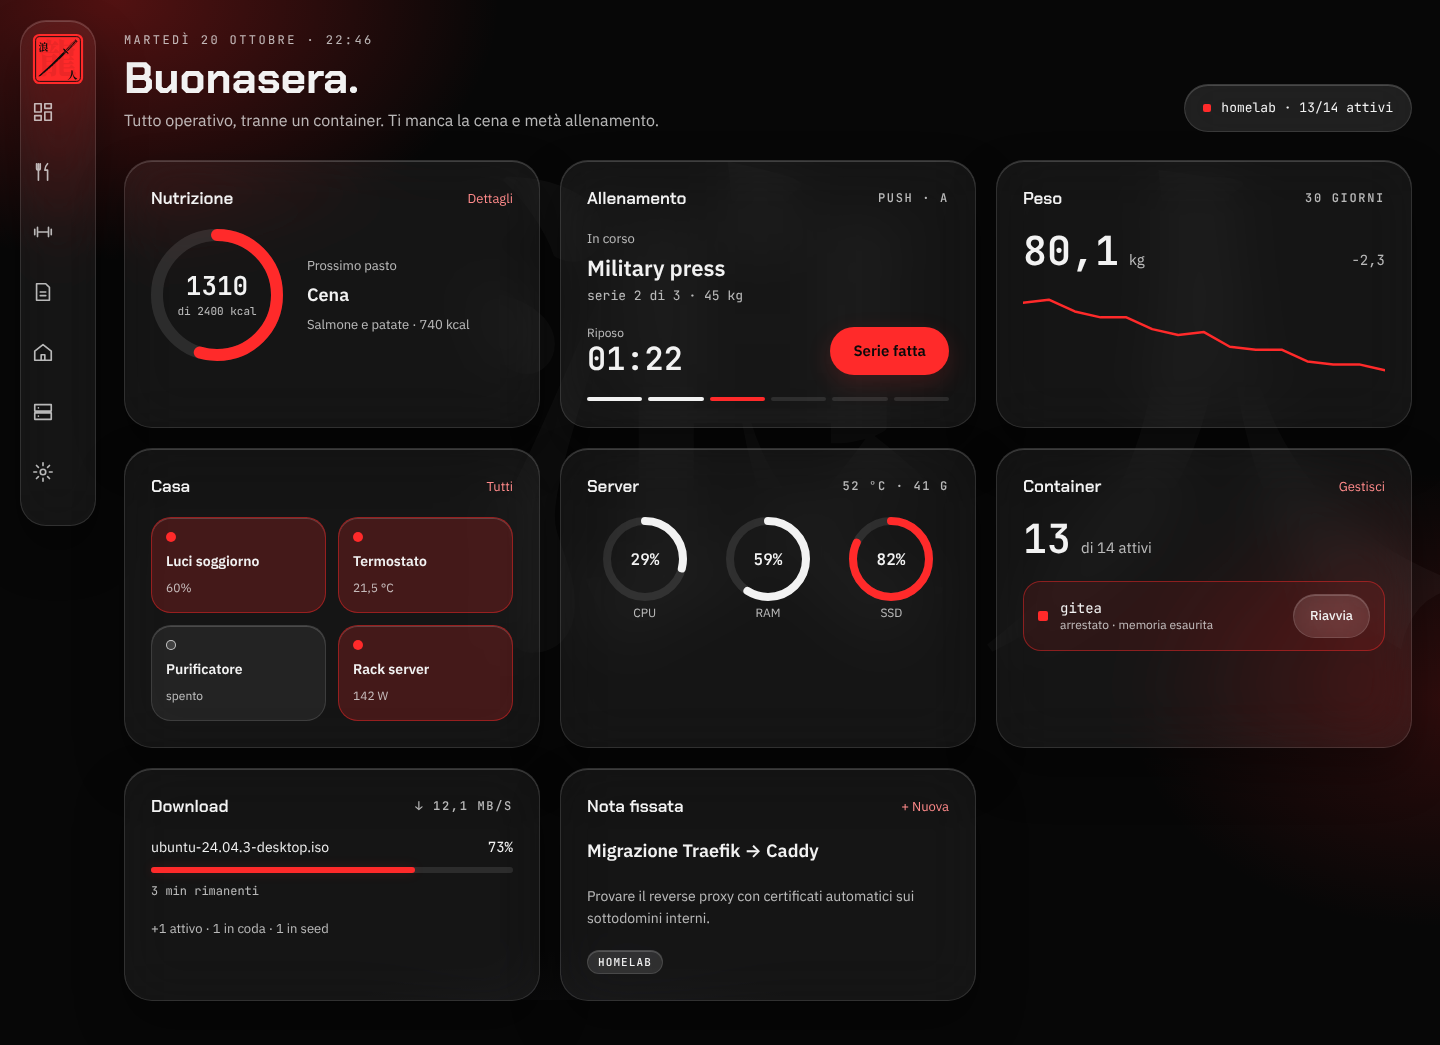
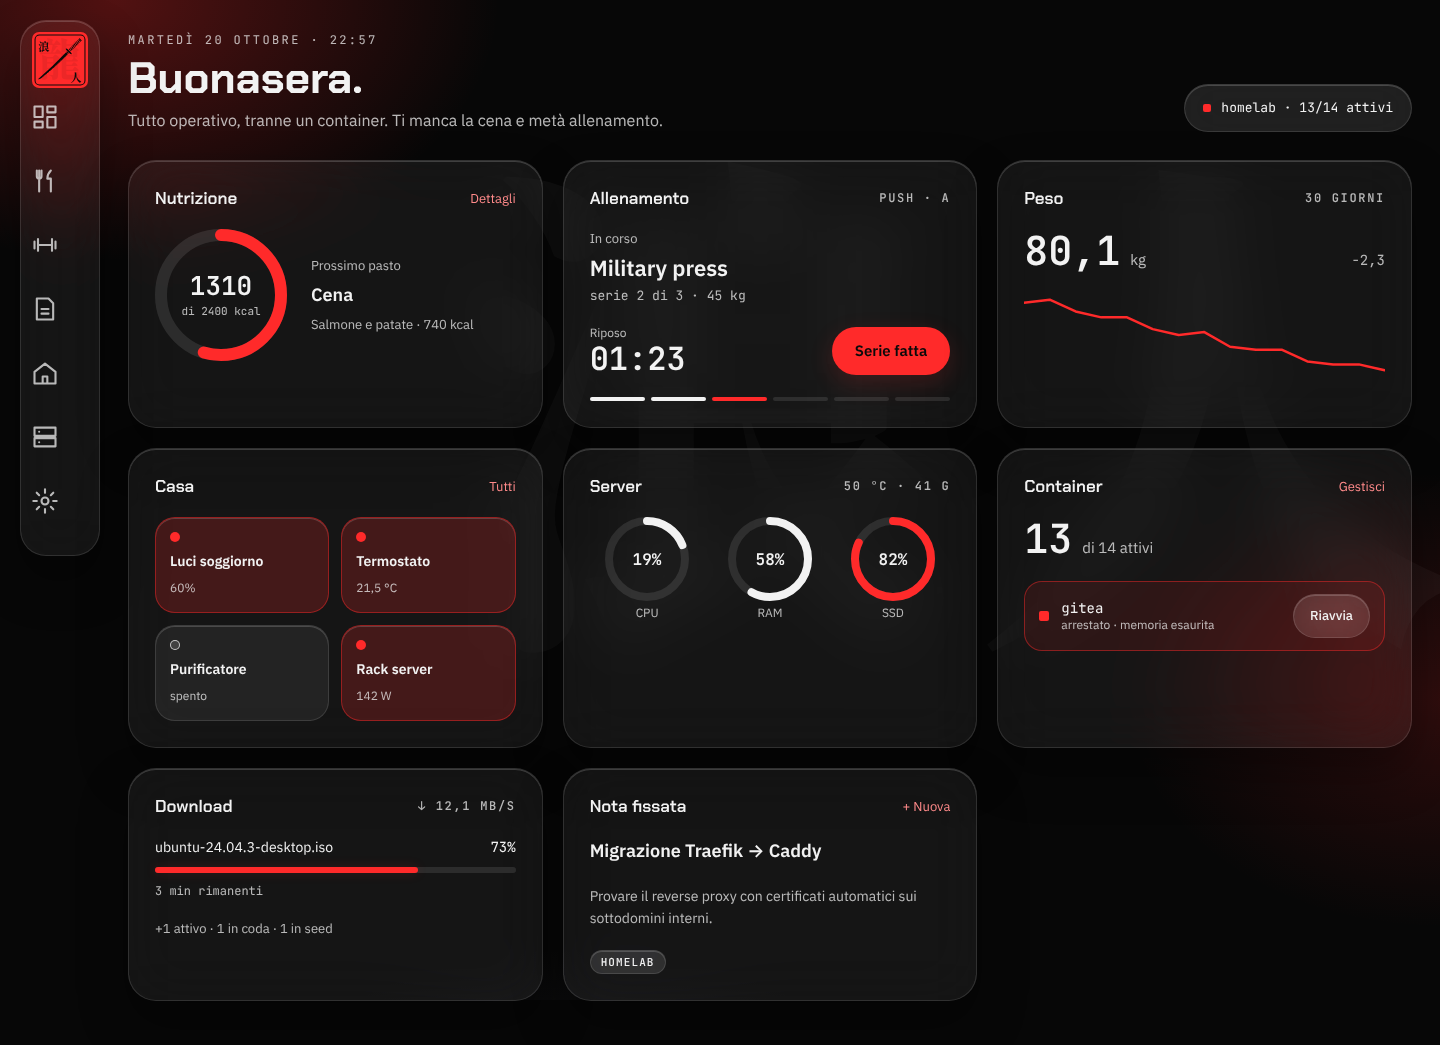
NavRail: voci centrate e icone più grandi
Le voci da 52px sforavano lo spazio interno della barra (50px) e
scivolavano a destra. Ora occupano tutta la larghezza interna, quadrate,
con icone da 28px e logo da 58px.

Claude-Session: https://claude.ai/code/session_01LgzfN7L1sWzLttxAyPxKcc

diff --git a/src/components/ron1n/Navigation.tsx b/src/components/ron1n/Navigation.tsx
@@ -8,14 +8,15 @@ import { Icon, type IconName } from './Icon'
 export type NavItem = { to: string; label: string; icon: IconName }
 
 // Barra laterale desktop: logo e una voce per sezione, etichetta in tooltip.
+// Le voci occupano tutta la larghezza interna, così restano centrate.
 export function NavRail({ items }: { items: NavItem[] }) {
   return (
     <nav
       aria-label="Sezioni"
-      className="glass-panel sticky top-5 flex w-[76px] flex-col items-center gap-2 self-start rounded-rail p-3"
+      className="glass-panel sticky top-5 flex w-20 flex-col items-stretch gap-1.5 self-start rounded-rail p-2.5"
     >
-      <NavLink to="/" className="mb-2" aria-label="ron1nOS, dashboard">
-        <HankoMark size={52} decorative />
+      <NavLink to="/" className="mb-2 block" aria-label="ron1nOS, dashboard">
+        <HankoMark size={58} decorative />
       </NavLink>
       {items.map((it) => (
         <Tooltip key={it.to}>
@@ -26,12 +27,12 @@ export function NavRail({ items }: { items: NavItem[] }) {
               aria-label={it.label}
               className={({ isActive }) =>
                 cn(
-                  'flex size-[52px] items-center justify-center rounded-control text-ink-muted transition-colors hover:bg-glass-strong hover:text-ink',
+                  'flex aspect-square w-full items-center justify-center rounded-control text-ink-muted transition-colors hover:bg-glass-strong hover:text-ink',
                   isActive && 'bg-glass-hover text-ink',
                 )
               }
             >
-              <Icon name={it.icon} />
+              <Icon name={it.icon} size={28} />
             </NavLink>
           </TooltipTrigger>
           <TooltipContent side="right">{it.label}</TooltipContent>
